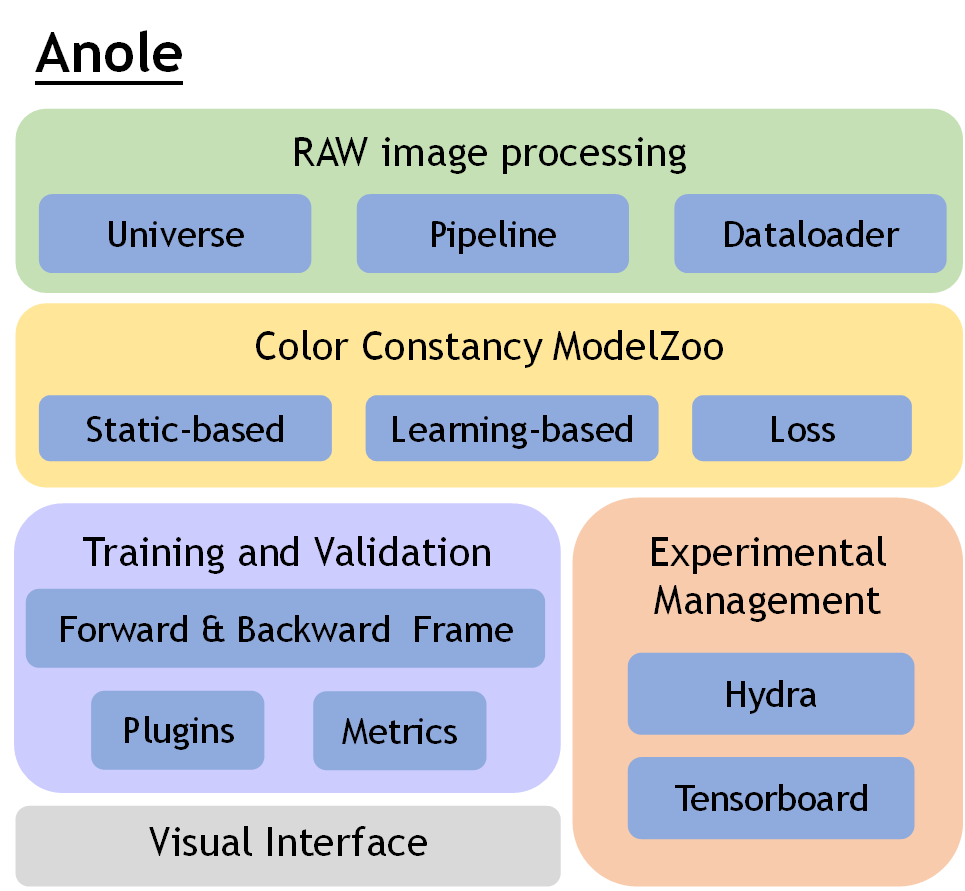
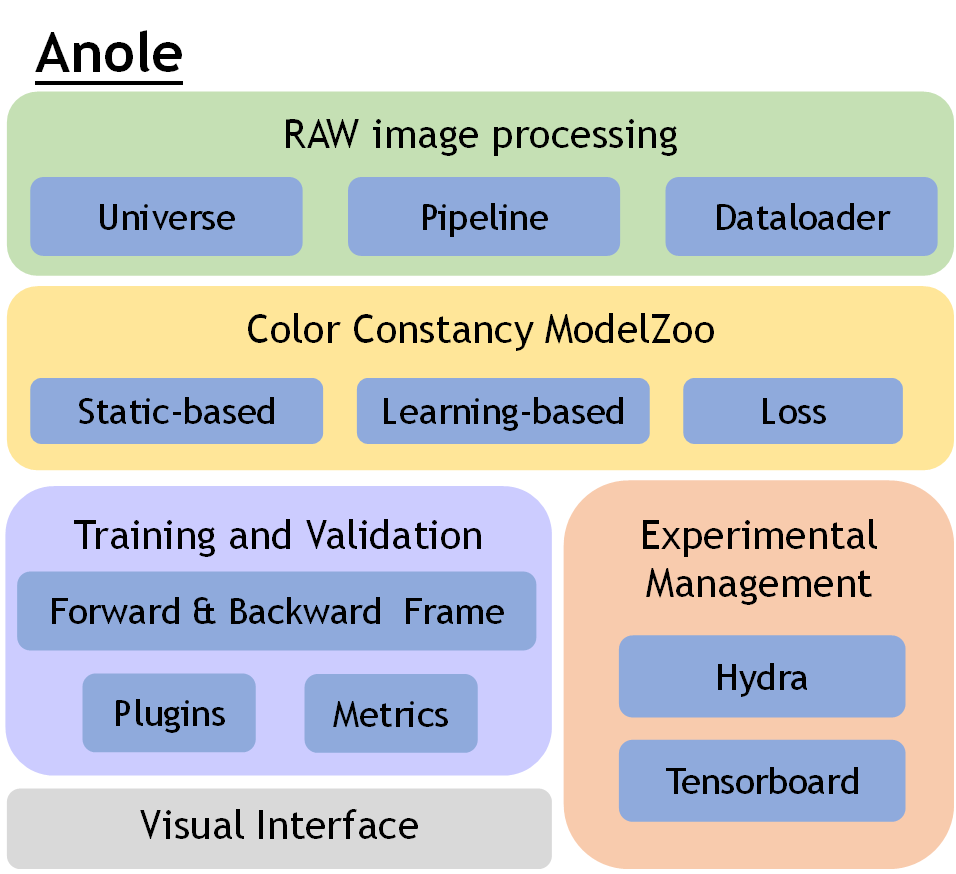
update readme

diff --git a/README.md b/README.md
@@ -15,7 +15,7 @@ The library is organized into four main modules:
 - Unified Evaluation Framework [[anole/training](https://github.com/YuxiangTang/Anole/tree/master/anole/training)]: It is difficult for people without camera processing experience to get started with color constancy, and some specifications are not accurately transmitted to various researchers, which leads to irregular use of data sets and inconsistent evaluation standards. To solve this problem, this codebase provides a unified testing framework and system, so as to standardize and unify the indicators of each dataset.
 - Experimental Management [[./config](https://github.com/YuxiangTang/Anole/tree/master/config)]: In this code base, you can manage the experiment by generating a report over Hydra and visualization technology after each experiment.
 
-![structure](./display/structure.png)
+<img src="./display/structure.png" alt="structure" style="zoom:80%;" />
 
 ## Getting Started
 
@@ -43,7 +43,7 @@ pip install -r requirements.txt
 python launch.py --cfg FC4_confidence.yaml
 ```
 
-The classic FC4 adopts SqueezeNet, which still cannot achieve the purpose of industrialization. In Anole, you can achieve a smaller model architecture by replacing the backbone. The following will show an example of changing to mobilenet:
+The classic FC4 adopts SqueezeNet but still cannot achieve the purpose of industrialization. In Anole, you can get a smaller model by easily replacing the backbone. The following example shows how to change the backbone to MobileNet:
 
 ```yaml
 model:
